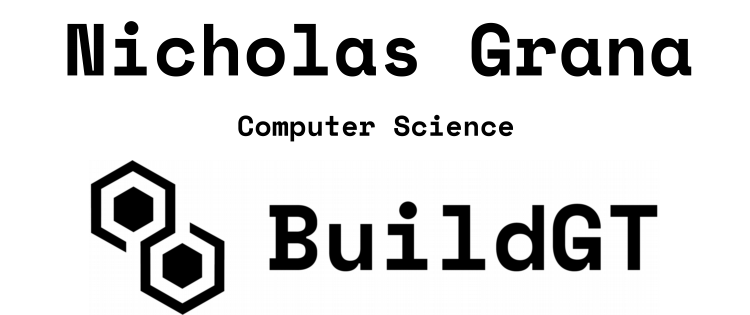
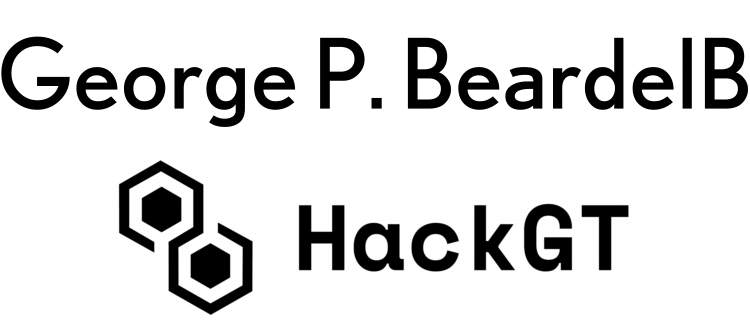
Type name -> get label support

Changed region(s): [[0.0, 0.0571, 1.0, 0.4571], [0.1227, 0.4857, 0.8893, 1.0]]

diff --git a/src/main.rs b/src/main.rs
@@ -1,18 +1,11 @@
-use hackgt_nfc::api::CheckinAPI;
-use hackgt_nfc::nfc::{ handle_cards, NFCBadge };
 use brother_ql_rs::printer::constants::label_data;
 use brother_ql_rs::printer::{ PrinterManager };
 use brother_ql_rs::text::TextRasterizer;
 use std::path::PathBuf;
-use std::collections::{ HashMap, VecDeque };
-use std::ffi::CString;
-use std::sync::{ Arc, RwLock };
+use std::io::{ stdin, stdout, Write};
 
 fn main() {
-    let mut printer_manager: Arc<PrinterManager> = Arc::new(PrinterManager::new().unwrap());
-
-    let reader_printer_map: Arc<RwLock<HashMap<CString, u8>>> = Arc::new(RwLock::new(HashMap::new()));
-    let printers: Arc<RwLock<VecDeque<u8>>> = Arc::new(RwLock::new(VecDeque::new()));
+    let mut printer_manager: PrinterManager = PrinterManager::new().unwrap();
 
     let available_printers = printer_manager.available_devices().unwrap();
     assert!(available_printers > 0, "No printers found");
@@ -26,75 +19,26 @@ fn main() {
     );
     rasterizer.set_second_row_image(PathBuf::from("./logos/HackGT Mono.png"));
 
-    let username = env!("CHECKIN_USERNAME");
-    let password = env!("CHECKIN_PASSWORD");
-
-    let api = CheckinAPI::login(username, password).expect("Failed to login to check in");
-
-    // Set up card polling
-    let handler1_reader_printer_map = Arc::clone(&reader_printer_map);
-    let handler2_reader_printer_map = Arc::clone(&reader_printer_map);
-    let handler_printers = Arc::clone(&printers);
-    let handler_manager = Arc::get_mut(&mut printer_manager).unwrap();
-    let handler_thread = handle_cards(move |card, reader, _reader_index| {
-        let reader_printer_map = handler1_reader_printer_map.read().unwrap();
-        let printer_id = reader_printer_map.get(reader);
-        if printer_id.is_none() {
-            println!("Reader {:?} is not associated with a printer", reader);
-            return;
-        }
-        handler_manager.get(*printer_id.unwrap(), move |printer| {
-            let badge = NFCBadge::new(&card);
-            badge.set_buzzer(false).unwrap();
-
-            match badge.get_user_id() {
-                Ok(id) => {
-                    match api.check_in(&id, "badge_label") {
-                        Ok((_success, user, _tag)) => {
-                            let major = user.questions.into_iter().find(|q| q.name == "major").map(|q| q.value.unwrap());
-                            let major = major.as_ref().map(String::as_str);
-
-                            let lines = rasterizer.rasterize(&user.name, dbg!(major), 1.2);
-                            if let Err(err) = printer.print(lines) {
-                                eprintln!("Error during printing: {:?}", err);
-                            }
-                        },
-                        Err(hackgt_nfc::api::Error::Message("Invalid user ID on badge")) => {
-                            eprintln!("User ID <{}> does not exist", &id);
-                        },
-                        Err(err) => {
-                            eprintln!("API error: {:?}", err);
-                        }
-                    };
-                },
-                Err(err) => {
-                    eprintln!("Error getting user ID: {:?}", err);
-                }
-            };
-        });
-    }, move |reader, added| {
-        if !added {
-            // Card reader removed
-            match handler2_reader_printer_map.write().unwrap().remove(reader) {
-                Some(printer) => {
-                    // Queue printer as available again
-                    handler_printers.write().unwrap().push_back(printer);
-                    println!("{:?} disconnected", reader);
-                },
-                None => println!("{:?} removed but wasn't associated with a printer", reader)
+    printer_manager.get(0, move |printer| {
+        loop {
+            let mut name = String::new();
+            print!("Name (\"q\" to exit) > ");
+            let _ = stdout().flush();
+            stdin().read_line(&mut name).expect("Did not enter a correct string");
+            if let Some('\n') = name.chars().next_back() {
+                name.pop();
             }
-        }
-        else {
-            // Card reader added
-            match handler_printers.write().unwrap().pop_front() {
-                Some(printer) => {
-                    // Associate this available printer with this reader
-                    handler2_reader_printer_map.write().unwrap().insert(reader.to_owned(), printer);
-                    println!("Associated {:?} with printer", reader);
-                },
-                None => println!("No available printers to associate with connected reader {:?}!", reader)
+            if let Some('\r') = name.chars().next_back() {
+                name.pop();
+            }
+            if name.chars().next().unwrap_or('q') == 'q' {
+                break;
+            }
+
+            let lines = rasterizer.rasterize(&name, None, 1.0);
+            if let Err(err) = printer.print(lines) {
+                eprintln!("Error during printing: {:?}", err);
             }
         }
     });
-    handler_thread.join().unwrap();
 }
